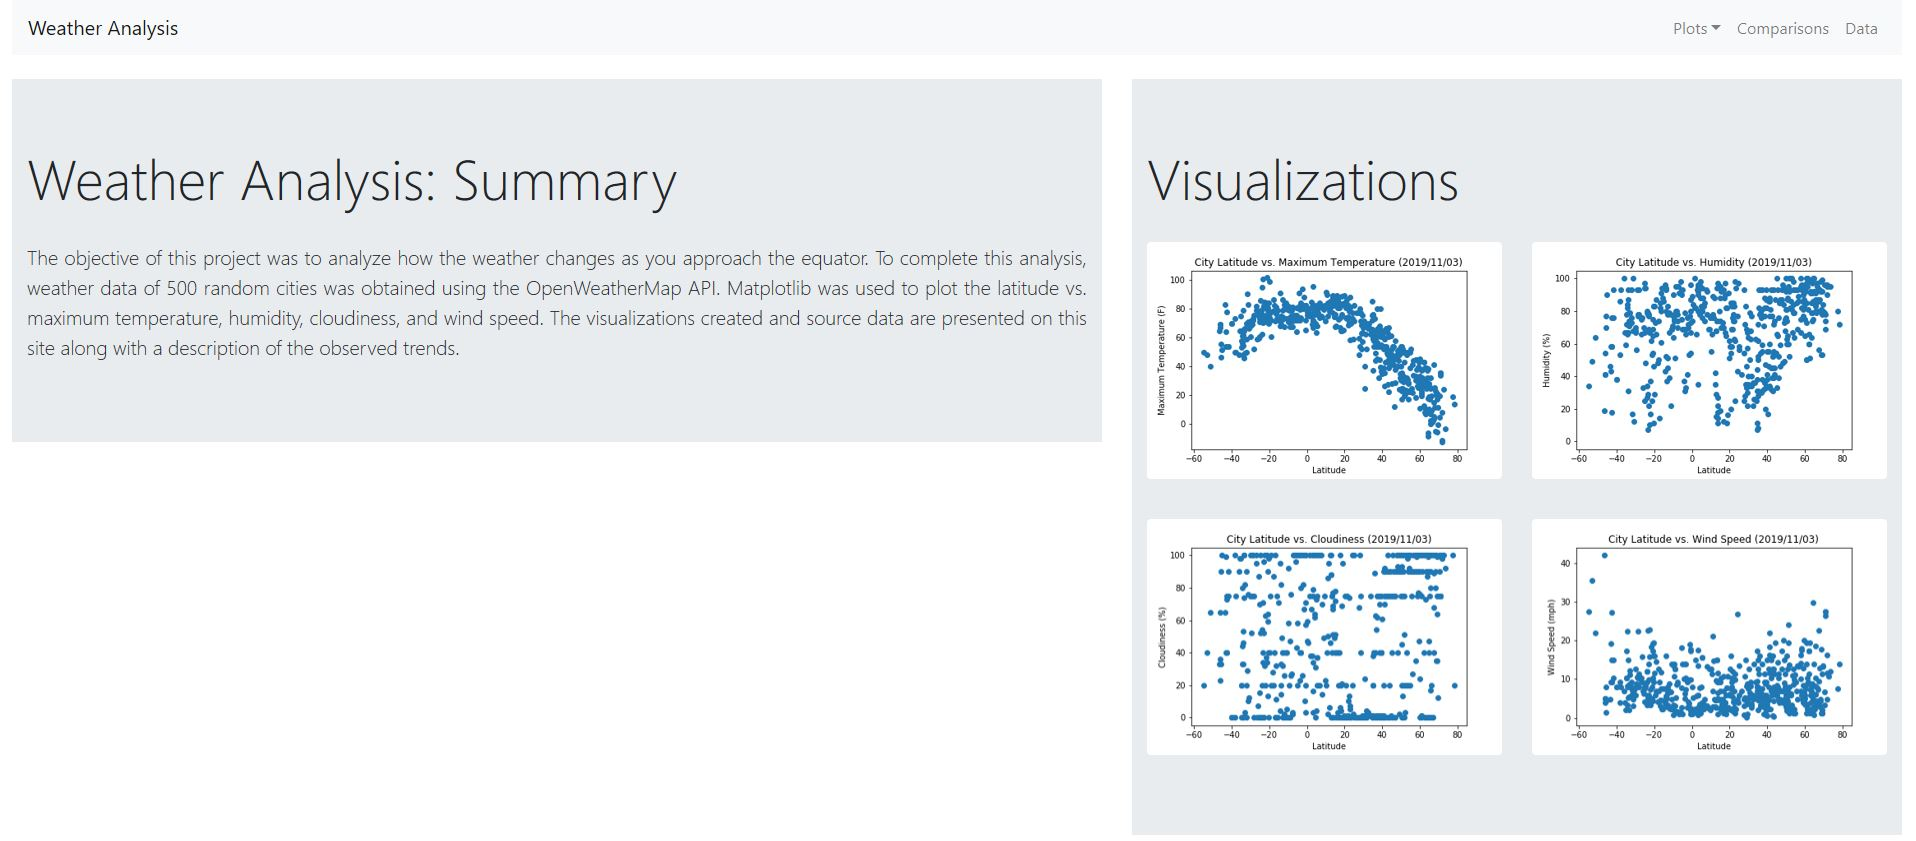
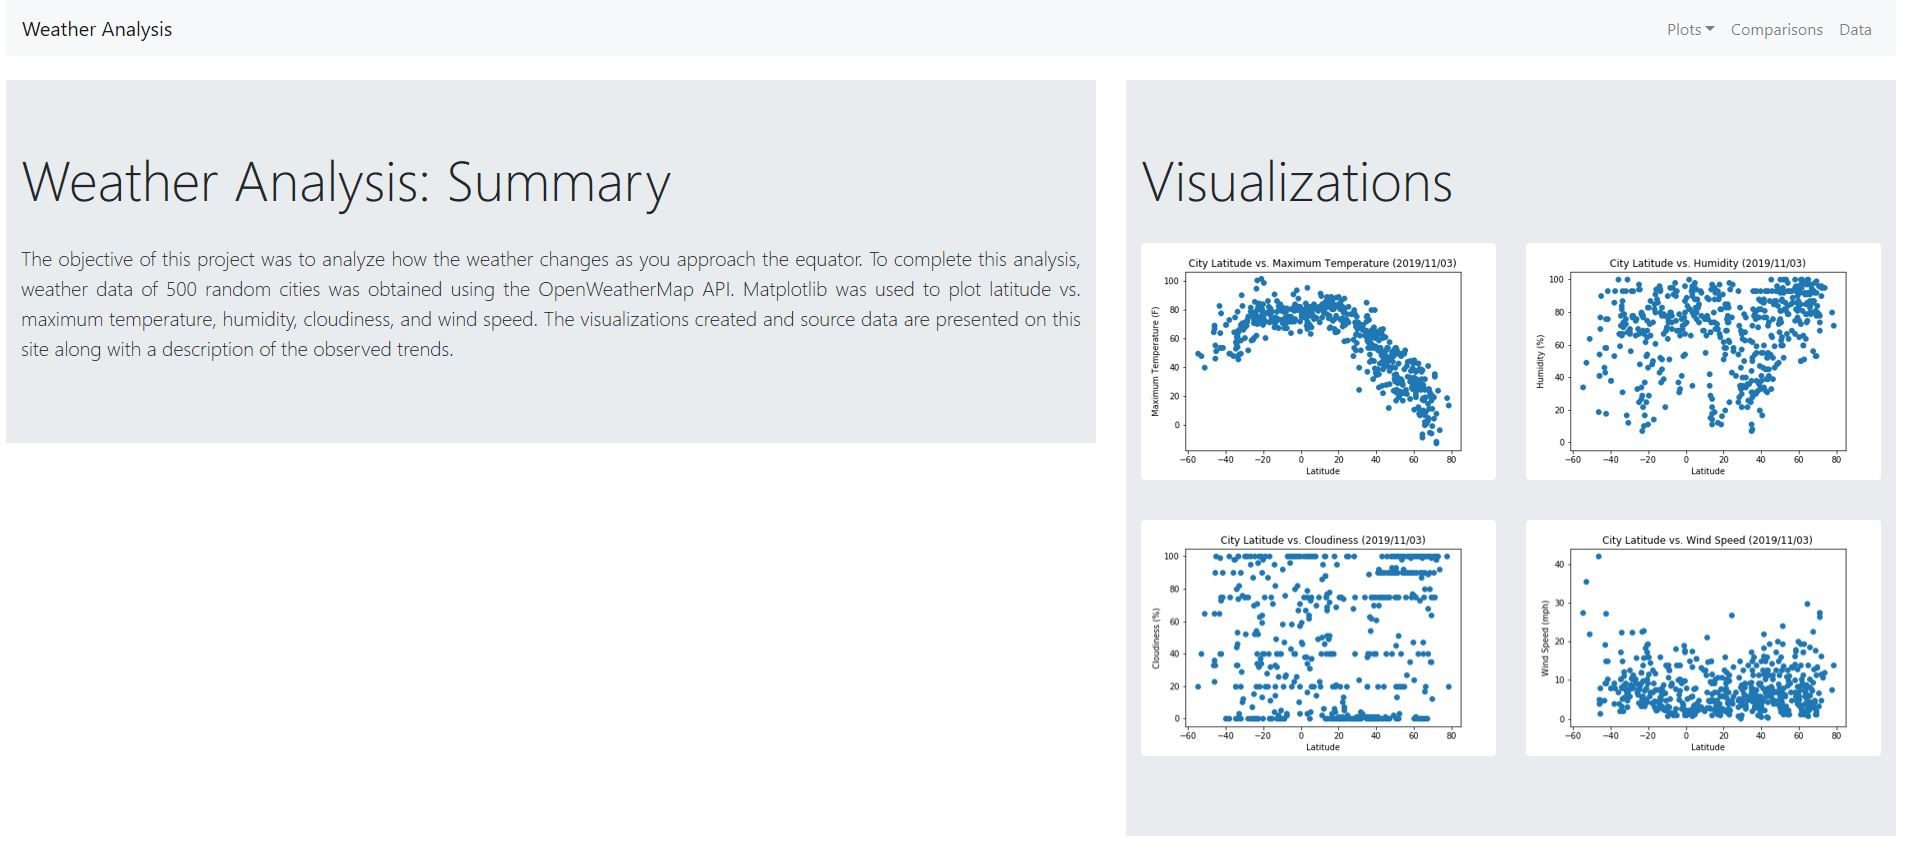
Edit index.html and screenshots

diff --git a/index.html b/index.html
@@ -50,7 +50,7 @@
                         </br>
                         <p class="lead text-justify">The objective of this project was to analyze how the weather changes as you approach the equator. 
                             To complete this analysis, weather data of 500 random cities was obtained using the OpenWeatherMap API. 
-                            Matplotlib was used to plot the latitude vs. maximum temperature, humidity, cloudiness, and wind speed. 
+                            Matplotlib was used to plot latitude vs. maximum temperature, humidity, cloudiness, and wind speed. 
                             The visualizations created and source data are presented on this site along with a description of the observed trends.
                         </p>
                     </div>
